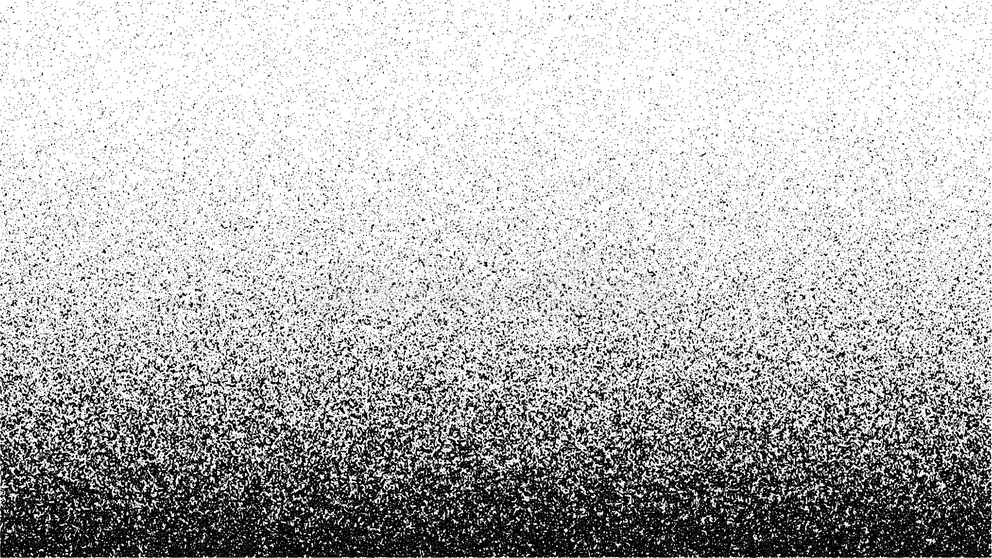
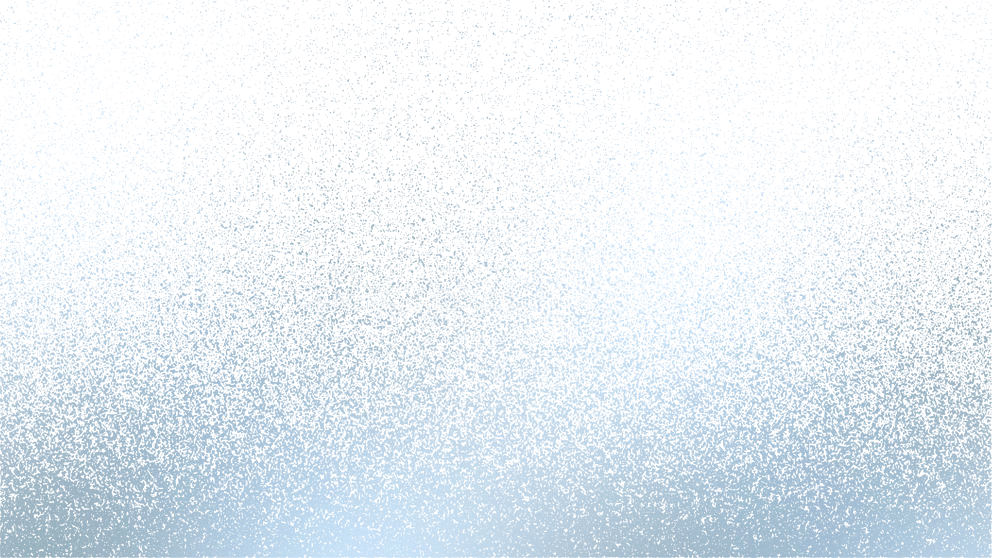
Refine hero title metallic grain

diff --git a/index.html b/index.html
@@ -1993,18 +1993,19 @@
     .hero .hero-title-accent {
       color: var(--accent-bright);
       background:
+        linear-gradient(112deg, rgba(255,255,255,.72) 0%, rgba(191,222,235,.28) 15%, rgba(255,255,255,.78) 31%, rgba(86,188,228,.18) 48%, rgba(244,252,255,.62) 64%, rgba(170,203,218,.24) 80%, rgba(255,255,255,.58) 100%),
         url("/assets/hero-title-grain.webp"),
-        linear-gradient(135deg, #B7EEFF 0%, #70C2E5 20%, #28A4D6 48%, #1E84B5 76%, #70C2E5 100%);
-      background-size: 280px 158px, 100% 100%;
-      background-position: 50% 66%, 0 0;
-      background-repeat: repeat, no-repeat;
-      background-blend-mode: multiply, normal;
+        linear-gradient(135deg, #C8F3FF 0%, #7FD3F0 18%, #28A4D6 44%, #1E84B5 72%, #9BE7FF 100%);
+      background-size: 100% 100%, 128px 72px, 100% 100%;
+      background-position: 0 0, 50% 76%, 0 0;
+      background-repeat: no-repeat, repeat, no-repeat;
+      background-blend-mode: screen, normal, normal;
       -webkit-background-clip: text;
       background-clip: text;
       -webkit-box-decoration-break: clone;
       box-decoration-break: clone;
       -webkit-text-fill-color: transparent;
-      filter: drop-shadow(0 1px 0 rgba(255,255,255,.12)) drop-shadow(0 10px 22px rgba(30,132,181,.16));
+      filter: brightness(1.14) saturate(1.24) drop-shadow(0 1px 0 rgba(255,255,255,.18)) drop-shadow(0 10px 22px rgba(30,132,181,.2));
     }
 
     .hero .cta-row .btn-primary {